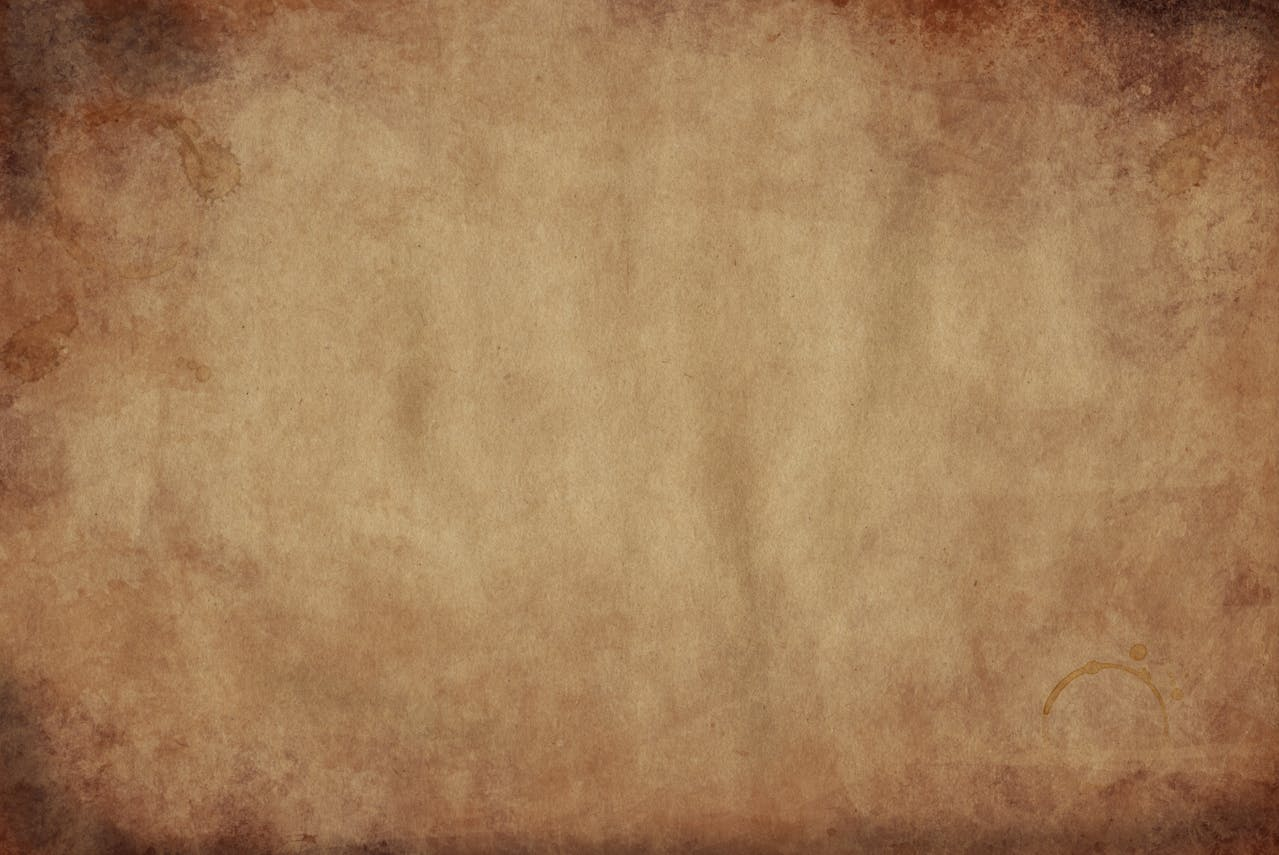
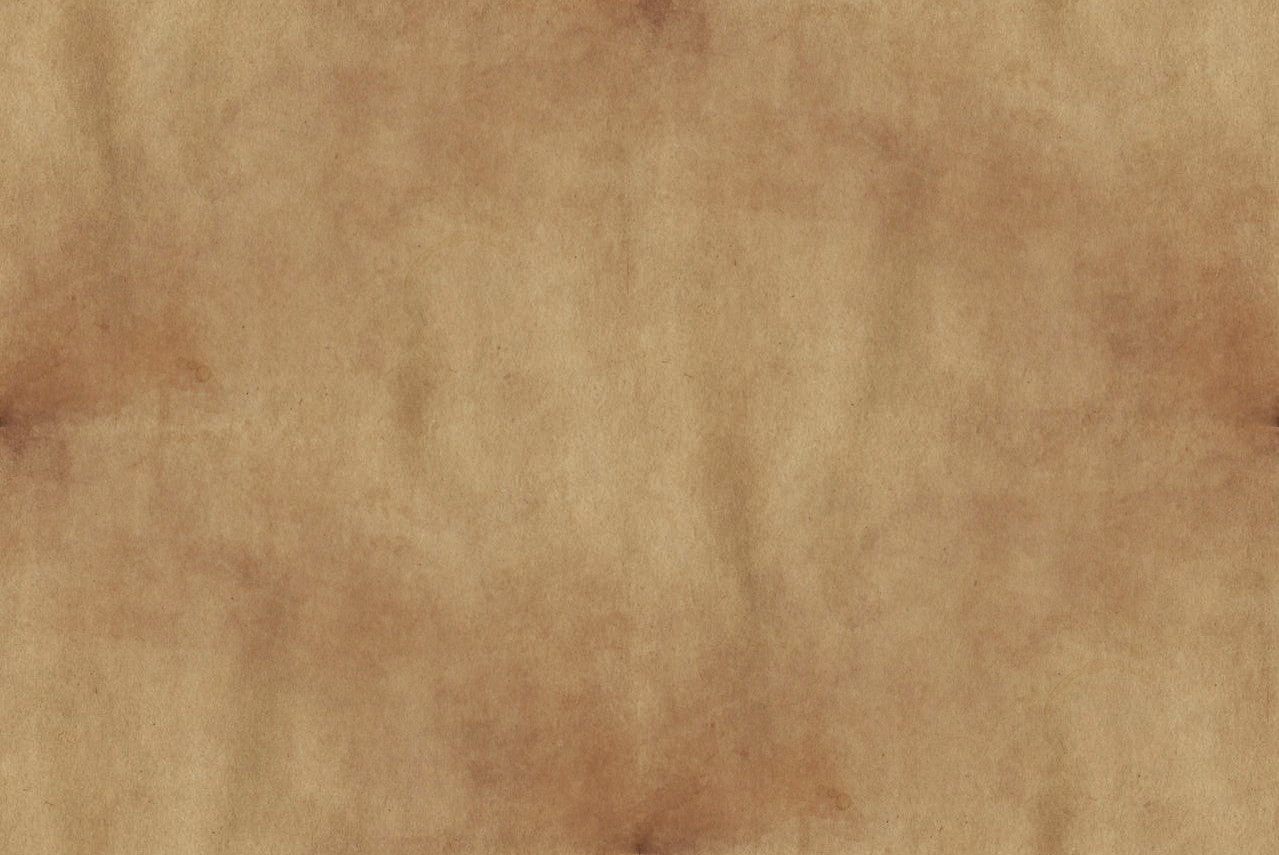
canvas-tile

diff --git a/src/components/StoryBlock.vue b/src/components/StoryBlock.vue
@@ -35,6 +35,7 @@ const questStore = useQuestStore();
 
 .story-block {
   padding: 1.5rem;
+  padding-bottom: 3.5rem; /* Increased from 2rem to accommodate the larger rip effect */
   line-height: 1.5;
   font-style: italic;
   position: relative;
@@ -44,7 +45,8 @@ const questStore = useQuestStore();
   
   /* Parchment background */
   background-image: url('/images/canvas.jpg');
-  background-size: cover;
+  background-size: auto;
+  background-repeat: repeat;
   background-blend-mode: v-bind('questStore.theme === "dark" ? "soft-light" : "screen"');
   
   /* Torn parchment effect */
@@ -53,12 +55,45 @@ const questStore = useQuestStore();
     0 2px 4px rgba(0, 0, 0, 0.2),
     0 0 0 1px rgba(0, 0, 0, 0.05);
   
-  /* Rough, uneven edges */
+  /* Rip effect with fixed top and bottom heights */
+  --rip-height: 40px; /* Increased from 10px to 40px (4x more pronounced) */
   clip-path: polygon(
-    0% 3%, 2% 0%, 8% 1%, 15% 0%, 20% 2%, 30% 0%, 35% 3%,
-    40% 1%, 50% 0%, 60% 2%, 65% 0%, 75% 1%, 85% 0%, 95% 2%, 100% 1%, 
-    100% 96%, 98% 100%, 92% 99%, 85% 100%, 80% 98%, 70% 100%, 65% 97%, 
-    60% 99%, 50% 100%, 40% 98%, 35% 100%, 25% 99%, 15% 100%, 5% 98%, 0% 99%
+    /* Top edge */
+    0% calc(0% + var(--rip-height) * 0.3), 
+    2% 0%, 
+    8% calc(0% + var(--rip-height) * 0.1), 
+    15% 0%, 
+    20% calc(0% + var(--rip-height) * 0.2), 
+    30% 0%, 
+    35% calc(0% + var(--rip-height) * 0.3),
+    40% calc(0% + var(--rip-height) * 0.1), 
+    50% 0%, 
+    60% calc(0% + var(--rip-height) * 0.2), 
+    65% 0%, 
+    75% calc(0% + var(--rip-height) * 0.1), 
+    85% 0%, 
+    95% calc(0% + var(--rip-height) * 0.2), 
+    100% calc(0% + var(--rip-height) * 0.1),
+    
+    /* Right edge */
+    100% calc(100% - var(--rip-height) * 0.4),
+    
+    /* Bottom edge */
+    100% calc(100% - var(--rip-height) * 0.4), 
+    98% 100%, 
+    92% calc(100% - var(--rip-height) * 0.1), 
+    85% 100%, 
+    80% calc(100% - var(--rip-height) * 0.2), 
+    70% 100%, 
+    65% calc(100% - var(--rip-height) * 0.3), 
+    60% calc(100% - var(--rip-height) * 0.1), 
+    50% 100%, 
+    40% calc(100% - var(--rip-height) * 0.2), 
+    35% 100%, 
+    25% calc(100% - var(--rip-height) * 0.1), 
+    15% 100%, 
+    5% calc(100% - var(--rip-height) * 0.2), 
+    0% calc(100% - var(--rip-height) * 0.1)
   );
 }
 

diff --git a/src/components/tabs/LogTab.vue b/src/components/tabs/LogTab.vue
@@ -8,16 +8,15 @@
     
     <div class="log-entries">
       <div v-for="(entries, hourGroup) in groupedEntries" :key="hourGroup" class="log-hour-group">
-        <div class="log-entries-container">
+        <StoryBlock>
           <h3 class="log-hour-header">{{ hourGroup }}</h3>
-          
           <div v-for="entry in entries" :key="entry.id" class="log-entry">
             <span class="log-entry-time">{{ formatTime(entry.timestamp) }}</span>
             - {{ entry.message }}
             <span v-if="entry.change?.xp && entry.change.xp > 0" class="log-entry-xp">+{{ entry.change.xp }} XP</span>
             <span v-if="entry.change?.booze && entry.change.booze > 0" class="log-entry-booze">+{{ entry.change.booze }} Booze</span>
           </div>
-        </div>
+        </StoryBlock>
       </div>
     </div>
   </div>
@@ -27,6 +26,7 @@
 import { useLogStore } from '@/stores/logStore';
 import { useQuestStore } from '@/stores/questStore';
 import { computed } from 'vue';
+import StoryBlock from '@/components/StoryBlock.vue';
 
 const questStore = useQuestStore();
 const logStore = useLogStore();
@@ -76,20 +76,14 @@ const formatTime = (timestamp: string): string => {
   flex-direction: column;
 }
 
-.log-entries-container {
-  padding: 0.75rem 1rem;
-  border-radius: 8px;
-  background-color: v-bind('questStore.getBackgroundColor("tertiary")');
-  border: 1px solid v-bind('questStore.getBorderColor("light")');
-}
-
 .log-hour-header {
-  padding: 0.5rem;
-  margin: -0.5rem -0.75rem 0.75rem;
   font-size: 1.25rem;
   font-weight: 600;
-  border-bottom: 1px solid v-bind('questStore.getBorderColor("light")');
   color: v-bind('questStore.getTextColor("secondary")');
+  margin-bottom: 1rem;
+  text-align: center;
+  border-bottom: 1px solid v-bind('questStore.theme === "dark" ? "rgba(255, 255, 255, 0.2)" : "rgba(0, 0, 0, 0.15)"');
+  padding-bottom: 0.5rem;
 }
 
 .log-entry {
@@ -100,7 +94,7 @@ const formatTime = (timestamp: string): string => {
 }
 
 .log-entry:not(:last-child) {
-  border-bottom: 1px solid v-bind('questStore.getBorderColor("light")');
+  border-bottom: 1px solid v-bind('questStore.theme === "dark" ? "rgba(255, 255, 255, 0.1)" : "rgba(0, 0, 0, 0.1)"');
   border-bottom-style: dashed;
 }
 
